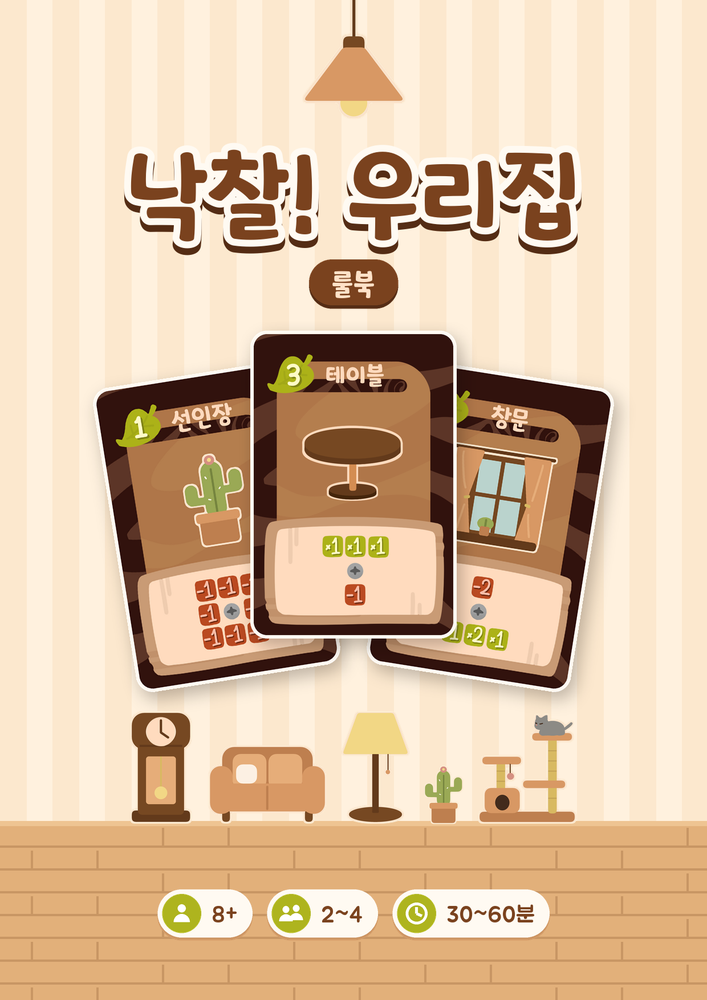
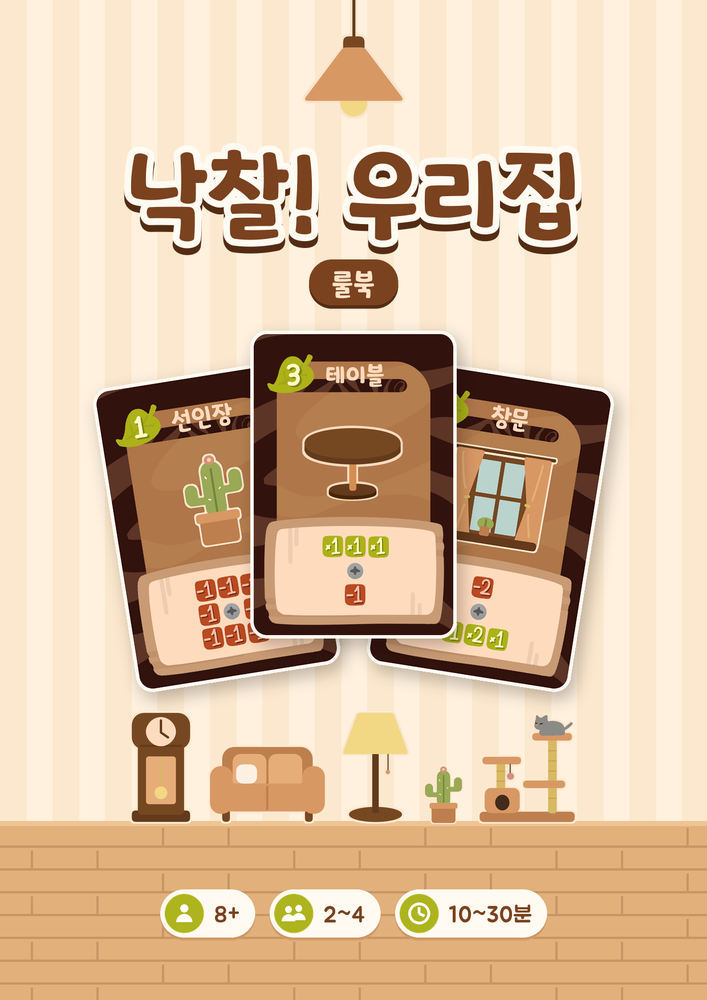
Website demo restacked (rules / simulation row / results), play time 10~30min
- Placement demo: rules row on top, hand 2x2 + 4x4 board in one row, settlement below
- Play time 10~30분 on site and rulebook cover (info pills redrawn over v1 cover when Katuri is missing)

Changed region(s): [[0.2178, 0.899, 0.7779, 0.93]]

diff --git a/index.html b/index.html
@@ -143,7 +143,7 @@
   .placement h2 { color: var(--yellow); }
   .placement .lead { color: #e7cfb0; }
   .placement .lead.try { color: var(--yellow); font-weight: 700; margin-top: 4px; }
-  .demo { display: grid; grid-template-columns: minmax(0, 1fr) minmax(0, 1fr); gap: 40px; align-items: start; margin-top: 40px; }
+  .demo { display: grid; gap: 22px; margin-top: 36px; }
   .rules { display: grid; gap: 16px; }
   .rule { display: flex; gap: 16px; align-items: flex-start; background: rgba(255,255,255,.06); border-radius: 18px; padding: 18px 20px; }
   .chip { flex: none; font-family: "Jua"; font-size: 22px; min-width: 58px; text-align: center; border-radius: 10px; padding: 4px 8px; color: #fff8d6; }
@@ -161,14 +161,14 @@
   .board-label { font-family: "Jua"; font-size: 18px; color: var(--wood); margin: 0 0 10px; display: flex; justify-content: space-between; gap: 10px; }
   .board-label small { font-family: "Pretendard"; font-size: 13.5px; color: var(--ink-soft); }
   /* 넓은 화면: 왼쪽 손패 한 줄(세로) + 오른쪽 4×4 판 — 끌어 놓는 동안 둘 다 한 화면에 보이게 */
-  .board-body { display: grid; grid-template-columns: 84px minmax(0, 360px); gap: 18px; justify-content: center; align-items: start; }
+  .board-body { display: grid; grid-template-columns: 196px minmax(0, 380px); gap: 28px; justify-content: center; align-items: center; }
   .grid4 { display: grid; grid-template-columns: repeat(4, 1fr); gap: 8px; }
-  .tray { display: grid; grid-template-columns: 1fr; gap: 8px; }
+  .tray { display: grid; grid-template-columns: repeat(2, 1fr); gap: 12px; }
   .slot, .tray-slot {
     position: relative; aspect-ratio: 697 / 1051; padding: 0; font: inherit; cursor: pointer;
     border: 2px dashed #d8c3a2; border-radius: 10px; background: var(--paper); transition: background .15s, border-color .15s;
   }
-  .tray-wrap { padding-right: 16px; border-right: 2px dotted var(--line); }
+  .tray-wrap { padding-right: 24px; border-right: 2px dotted var(--line); align-self: stretch; display: flex; flex-direction: column; justify-content: center; }
   .tray-wrap .board-label { font-size: 15px; justify-content: center; }
   @media (max-width: 560px) {
     .board { padding: 16px; }
@@ -203,7 +203,8 @@
   .result { background: rgba(255,255,255,.06); border-radius: 18px; padding: 20px 22px; }
   .result h3 { font-size: 24px; color: var(--yellow); margin: 0 0 6px; }
   .result .empty { color: #d9c3a4; margin: 6px 0 0; }
-  .calc { list-style: none; margin: 8px 0 0; padding: 0; }
+  .calc { list-style: none; margin: 8px 0 0; padding: 0; display: grid; grid-template-columns: repeat(2, minmax(0, 1fr)); column-gap: 36px; }
+  @media (max-width: 760px) { .calc { grid-template-columns: minmax(0, 1fr); } }
   .calc li { display: grid; grid-template-columns: 1fr auto; gap: 2px 12px; padding: 9px 0; border-bottom: 1px dashed rgba(234, 211, 178, .25); }
   .calc li b { font-weight: 700; color: var(--cream); font-size: 15.5px; }
   .calc li span { grid-column: 1; color: #d9c3a4; font-size: 14.5px; }
@@ -219,7 +220,8 @@
   .demo-btns { display: flex; flex-wrap: wrap; gap: 10px; margin-top: 16px; }
   button.btn.ghosty { background: transparent; color: var(--cream); box-shadow: inset 0 0 0 2px rgba(234, 211, 178, .5); }
   button.btn.ghosty:active { transform: translateY(1px); box-shadow: inset 0 0 0 2px rgba(234, 211, 178, .5); }
-  .mini-rules { display: flex; flex-wrap: wrap; gap: 8px 14px; margin-bottom: 18px; color: #ead6bb; font-size: 14.5px; }
+  .mini-rules { display: flex; flex-wrap: wrap; justify-content: center; gap: 10px 28px; color: #ead6bb; font-size: 15.5px; }
+  @media (max-width: 560px) { .mini-rules { flex-direction: column; align-items: flex-start; gap: 8px; font-size: 14.5px; } }
   .mini-rules span { display: flex; align-items: center; gap: 8px; }
   .mini-rules .chip { font-size: 17px; min-width: 44px; padding: 2px 6px; }
   button.btn {
@@ -316,7 +318,7 @@
   <div class="hero-bar">
     <span><b>2~4인</b>플레이어</span>
     <span><b>8+</b>세 이상</span>
-    <span><b>30~60분</b>플레이 시간</span>
+    <span><b>10~30분</b>플레이 시간</span>
     <span><b>43장</b>가구 카드</span>
   </div>
 </header>
@@ -390,6 +392,11 @@
       <p class="lead try">가구 카드 4장을 4×4 우리집 판에 끌어다 놓아 보세요. 놓는 대로 정산을 계산해 드려요.</p>
     </div>
     <div class="demo">
+      <div class="mini-rules reveal">
+        <span><span class="chip green">×2</span>그 칸의 가구 가치 × 배율만큼 받기</span>
+        <span><span class="chip red">-2</span>그 칸에 가구가 있으면 수치만큼 내기</span>
+        <span><span class="chip grey">빈칸</span>계산하지 않아요</span>
+      </div>
       <div class="board reveal" id="board">
         <p class="board-label">우리집 <small>끌어다 놓기 · 또는 카드를 누른 뒤 칸을 누르기</small></p>
         <div class="board-body">
@@ -401,11 +408,6 @@
         </div>
       </div>
       <div class="reveal">
-        <div class="mini-rules">
-          <span><span class="chip green">×2</span>그 칸의 가구 가치 × 배율만큼 받기</span>
-          <span><span class="chip red">-2</span>그 칸에 가구가 있으면 수치만큼 내기</span>
-          <span><span class="chip grey">빈칸</span>계산하지 않아요</span>
-        </div>
         <div class="result" aria-live="polite">
           <h3>정산 결과</h3>
           <div id="calcOut"></div>
